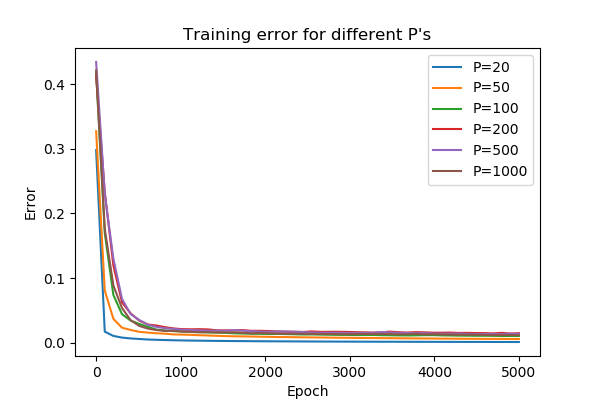
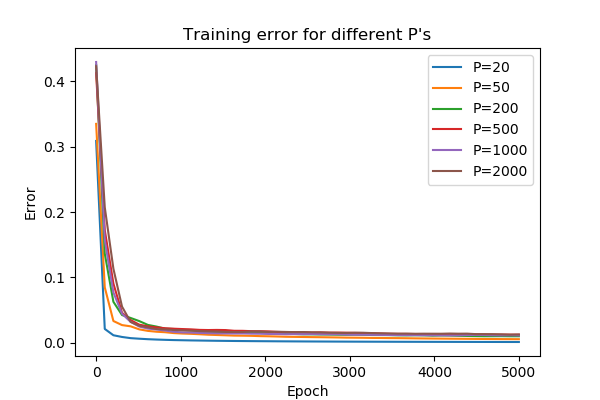
correct mistake in different Ps

diff --git a/assignment3/main.py b/assignment3/main.py
@@ -63,7 +63,7 @@ for n_train in P_sizes:
 plt.rcParams['figure.figsize'] = (6, 4)
 for i in range(np.shape(train_errors)[0]):    
     plt.plot(x, train_errors[i,:])
-plt.legend(['P=20', 'P=50', 'P=100', 'P=200', 'P=500', 'P=1000', 'P=2000'])
+plt.legend(['P=20', 'P=50', 'P=200', 'P=500', 'P=1000', 'P=2000'])
 plt.title("Training error for different P's")
 plt.xlabel("Epoch")
 plt.ylabel("Error")
@@ -72,7 +72,7 @@ plt.show()
 
 for i in range(np.shape(test_errors)[0]):    
     plt.plot(x, test_errors[i,:])
-plt.legend(['P=20', 'P=50', 'P=100', 'P=200', 'P=500', 'P=1000', 'P=2000'])
+plt.legend(['P=20', 'P=50', 'P=200', 'P=500', 'P=1000', 'P=2000'])
 plt.title("Test error for different P's")
 plt.xlabel("Epoch")
 plt.ylabel("Error")
